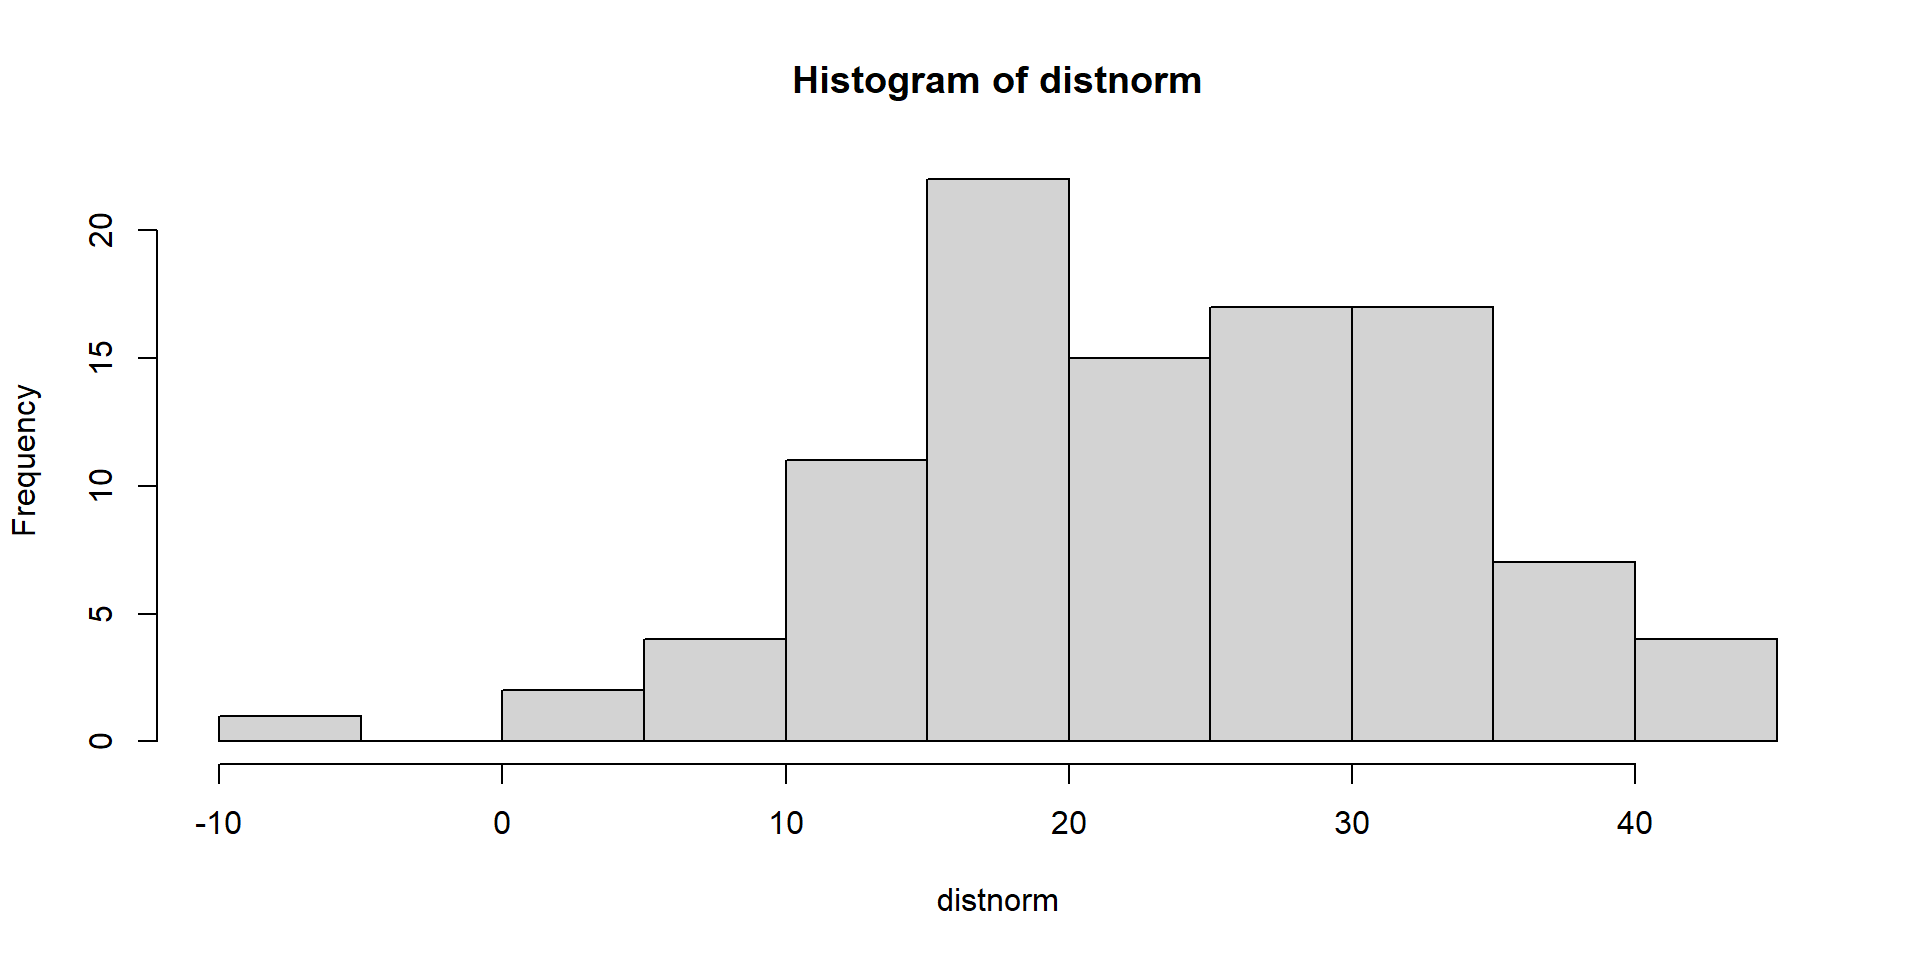
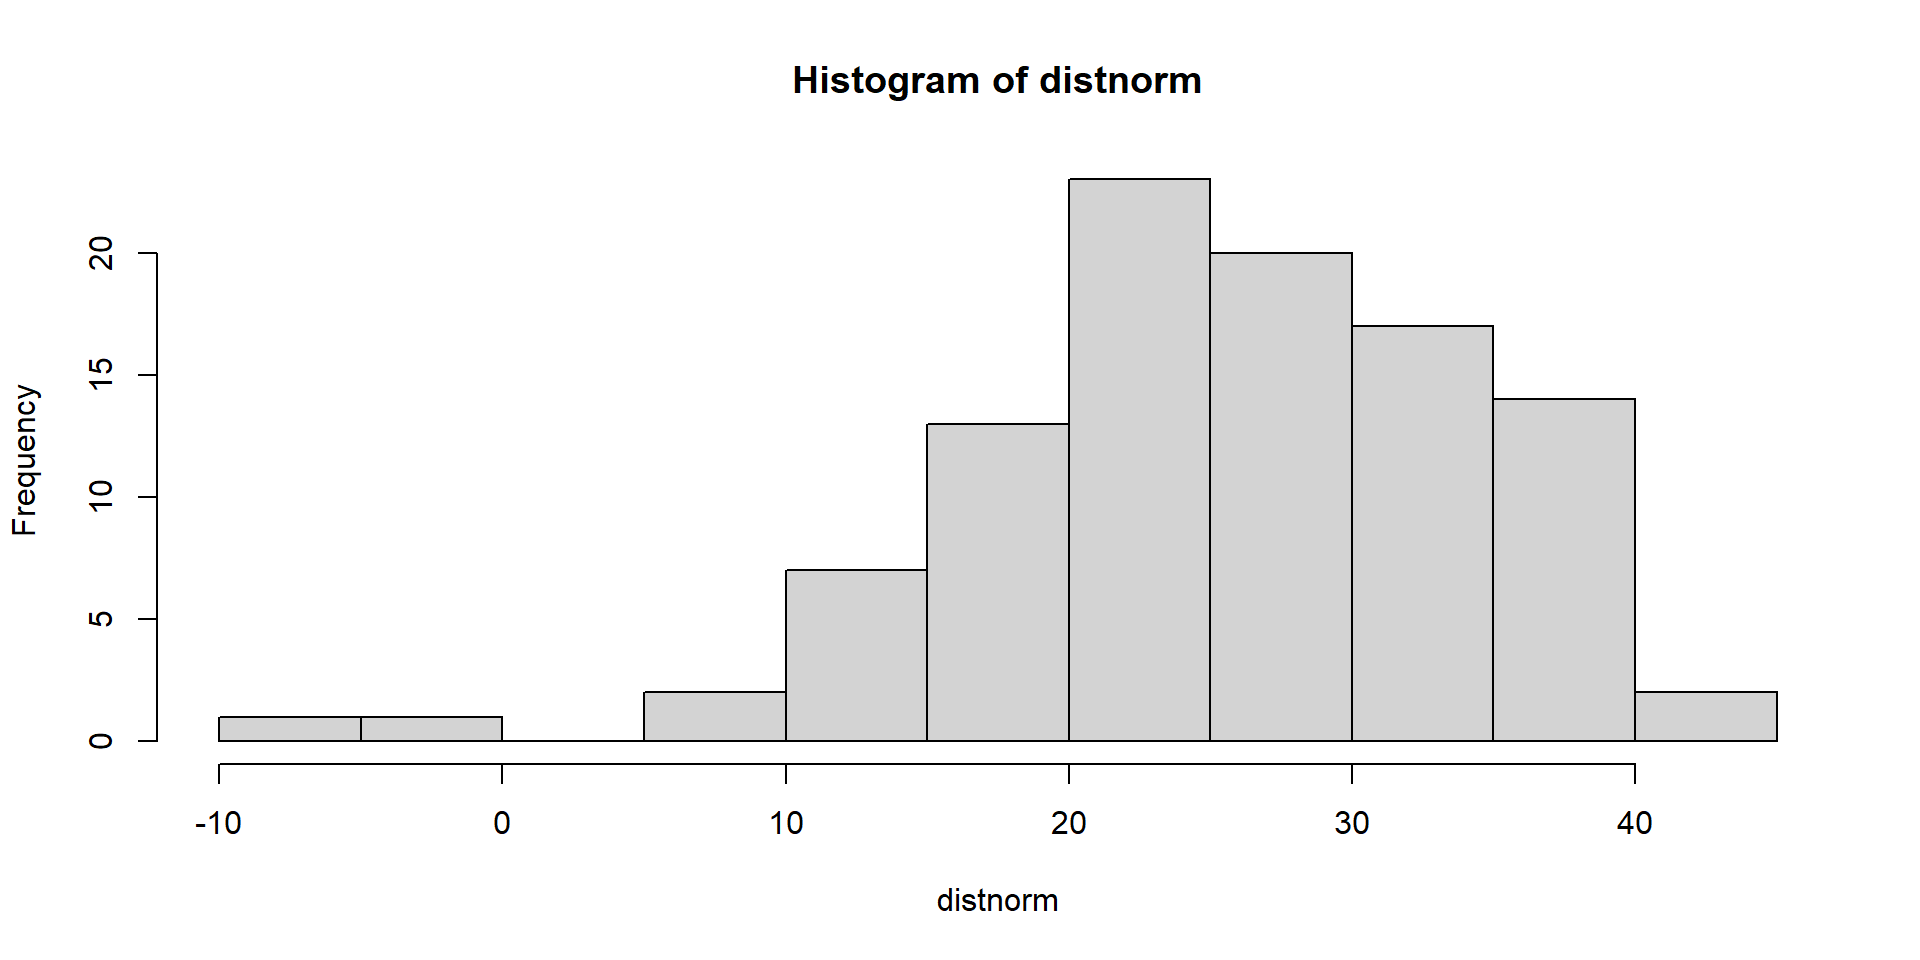
atualizaçao aula 4

diff --git a/docs/aulas/slides/aula-R-4-vetores.html b/docs/aulas/slides/aula-R-4-vetores.html
@@ -1102,6 +1102,7 @@ Utilizando “[ ]” podemos designar a posição dos elementos</p>
 </section>
 <section id="sequencias-distribuições-e-amostragens" class="slide level2">
 <h2>Sequencias, distribuições e amostragens</h2>
+<div class="texto-menor">
 <ul>
 <li>“:” - nos ja vimos este</li>
 <li>“seq()”
@@ -1117,6 +1118,7 @@ Utilizando “[ ]” podemos designar a posição dos elementos</p>
 <li>gera números aleatórios de uma distribuição uniforme <code>&gt; runif(n, min, max)</code></li>
 </ul></li>
 </ul>
+</div>
 <div class="cell">
 <div class="code-copy-outer-scaffold"><div class="sourceCode cell-code" id="cb99"><pre class="sourceCode numberSource r number-lines code-with-copy"><code class="sourceCode r"><span id="cb99-1"><a></a><span class="fu">seq</span>(<span class="dv">1</span>, <span class="dv">10</span>)</span>
 <span id="cb99-2"><a></a><span class="fu">seq</span>(<span class="dv">1</span>, <span class="dv">10</span>, <span class="dv">2</span>)</span>
@@ -1131,8 +1133,9 @@ Utilizando “[ ]” podemos designar a posição dos elementos</p>
 <span id="cb99-11"><a></a><span class="fu">runif</span>(<span class="dv">100</span>, <span class="dv">1</span>, <span class="dv">25</span>)</span></code></pre></div><button title="Copy to Clipboard" class="code-copy-button"><i class="bi"></i></button></div>
 </div>
 </section>
-<section id="sequencias-distribuições-e-amostragenws" class="slide level2">
-<h2>Sequencias, distribuições e amostragenws</h2>
+<section id="sequencias-distribuições-e-amostragens-1" class="slide level2">
+<h2>Sequencias, distribuições e amostragens</h2>
+<div class="texto-menor">
 <ul>
 <li>Podemos criar sequencias com distribuição normal, com média e desvio conhecidos</li>
 <li>rnorm()
@@ -1141,27 +1144,28 @@ Utilizando “[ ]” podemos designar a posição dos elementos</p>
 </ul></li>
 <li>O R possui funções que podem criar diversos tipos de distribuição diferentes</li>
 </ul>
+</div>
 <div class="columns">
 <div class="column" style="width:50%;">
 <div class="cell">
 <div class="code-copy-outer-scaffold"><div class="sourceCode cell-code" id="cb100"><pre class="sourceCode numberSource r number-lines code-with-copy"><code class="sourceCode r"><span id="cb100-1"><a></a>distnorm <span class="ot">&lt;-</span> <span class="fu">rnorm</span>(<span class="dv">100</span>, <span class="at">mean =</span> <span class="dv">25</span>, <span class="at">sd =</span> <span class="dv">10</span>)</span>
 <span id="cb100-2"><a></a>distnorm</span></code></pre></div><button title="Copy to Clipboard" class="code-copy-button"><i class="bi"></i></button></div>
 <div class="cell-output cell-output-stdout">
-<pre><code>  [1] 17.081032 19.561967 34.590324 10.147682 19.505648  4.427268 21.826768
-  [8] 13.671276 13.714717 31.565568 23.100996 37.909101 17.968977 26.844779
- [15] 32.853713 26.924654 17.360859 29.322131 19.172713 10.519161 12.676954
- [22] 17.429305 17.467810 28.537136 26.487296 27.796937 31.203960 -5.302708
- [29]  6.459013 30.655248 30.719183 16.333287  7.078035 28.311178 11.383085
- [36] 25.724208 33.634892 15.456030 22.333032 19.124565 30.909668 10.349636
- [43] 10.771628 32.918673 27.684269 35.126828 17.186877 17.448886 35.205138
- [50] 15.591731 34.036756 21.642353 30.768283  1.932533 41.586288 20.837487
- [57] 25.460439 32.809960 34.603107 29.593031 28.500482 21.808293 44.610827
- [64] 40.348077 17.029492 39.973316 38.534627 15.241712 16.898282 29.330654
- [71] 23.282803 12.337178 34.997324 22.190928 20.142415 25.780330 22.468911
- [78] 19.147722 25.484646 32.290065 22.858369 12.825680  5.934951  8.928289
- [85] 19.731782 22.232419 43.371431 35.858168 17.168965 27.049490 17.243942
- [92] 32.282293 23.422289 38.959030 23.645289 30.002003 18.843657 24.518771
- [99] 10.611175 29.143185</code></pre>
+<pre><code>  [1] 32.314839 29.120740 32.718892 30.478932  5.853063 26.374348 32.862763
+  [8] 33.849564 29.957731 -0.308164 29.744132 44.609945 35.087440 21.320851
+ [15] 10.426451 25.420793 24.679257 37.988781 17.618819 29.372169 20.061494
+ [22] 35.178903 13.037884 25.468221 17.829899 32.419414 19.335578 21.568087
+ [29] 24.953170 23.864436 23.594536 35.667856 25.330198 -5.082451 31.991956
+ [36] 32.259717 26.500406 31.960167 39.395287 19.166321 34.719188 17.616632
+ [43] 25.647413 25.988869 19.614360 18.845260 28.398411 30.661901 40.690496
+ [50] 26.947452 14.010700 35.495315 22.458766 28.972791 25.189489 11.122240
+ [57] 24.850208 15.163376 22.722113 22.868882 24.025667 37.997647 33.076005
+ [64] 25.105825 33.815118 32.139143 28.192552 14.121906  7.387452 21.420390
+ [71] 23.821194 37.294122 17.206513 21.692271 30.907792 35.394748 22.812408
+ [78] 26.687105 33.208474 38.166930 18.941387 20.836430 13.047730 22.980702
+ [85] 24.440766 18.478172 31.376778 24.345050 23.770037 28.153158 16.882095
+ [92] 14.557003 19.138206 39.622738 26.324574 39.531639 38.514357 20.849084
+ [99] 35.093614 23.558882</code></pre>
 </div>
 </div>
 </div><div class="column" style="width:50%;">
@@ -1177,8 +1181,8 @@ Utilizando “[ ]” podemos designar a posição dos elementos</p>
 </div>
 </div></div>
 </section>
-<section id="sequencias-distribuições-e-amostragenws-1" class="slide level2">
-<h2>Sequencias, distribuições e amostragenws</h2>
+<section id="sequencias-distribuições-e-amostragens-2" class="slide level2">
+<h2>Sequencias, distribuições e amostragens</h2>
 <ul>
 <li>Podemos sortear valores dentro de um vetor
 <ul>
@@ -1189,7 +1193,7 @@ Utilizando “[ ]” podemos designar a posição dos elementos</p>
 <div class="code-copy-outer-scaffold"><div class="sourceCode cell-code" id="cb102"><pre class="sourceCode numberSource r number-lines code-with-copy"><code class="sourceCode r"><span id="cb102-1"><a></a>d6 <span class="ot">&lt;-</span> <span class="fu">c</span>(<span class="dv">1</span><span class="sc">:</span><span class="dv">6</span>)</span>
 <span id="cb102-2"><a></a><span class="fu">sample</span>(d6, <span class="dv">3</span>)</span></code></pre></div><button title="Copy to Clipboard" class="code-copy-button"><i class="bi"></i></button></div>
 <div class="cell-output cell-output-stdout">
-<pre><code>[1] 2 1 5</code></pre>
+<pre><code>[1] 1 5 6</code></pre>
 </div>
 <div class="code-copy-outer-scaffold"><div class="sourceCode cell-code" id="cb104"><pre class="sourceCode numberSource r number-lines code-with-copy"><code class="sourceCode r"><span id="cb104-1"><a></a>moeda <span class="ot">&lt;-</span> <span class="fu">c</span>(<span class="st">"cara"</span>, <span class="st">"coroa"</span>)</span>
 <span id="cb104-2"><a></a>jogo <span class="ot">&lt;-</span> <span class="fu">sample</span>(moeda, <span class="dv">100</span>, <span class="at">replace =</span> <span class="cn">TRUE</span>)</span>
@@ -1199,7 +1203,7 @@ Utilizando “[ ]” podemos designar a posição dos elementos</p>
 <span id="cb104-6"><a></a></span>
 <span id="cb104-7"><a></a><span class="fu">sample</span>(sena, <span class="dv">6</span>, <span class="at">replace =</span> <span class="cn">FALSE</span>)</span></code></pre></div><button title="Copy to Clipboard" class="code-copy-button"><i class="bi"></i></button></div>
 <div class="cell-output cell-output-stdout">
-<pre><code>[1] 56 13 23 36 47 22</code></pre>
+<pre><code>[1]  5 57 56 30 13 46</code></pre>
 </div>
 </div>
 </section>
@@ -1209,17 +1213,17 @@ Utilizando “[ ]” podemos designar a posição dos elementos</p>
 <div class="code-copy-outer-scaffold"><div class="sourceCode cell-code" id="cb106"><pre class="sourceCode numberSource r number-lines code-with-copy"><code class="sourceCode r"><span id="cb106-1"><a></a>x <span class="ot">&lt;-</span> <span class="fu">rnorm</span>(<span class="dv">10</span>)</span>
 <span id="cb106-2"><a></a><span class="fu">sort</span>(x) <span class="co">#ordena os valores de x.</span></span></code></pre></div><button title="Copy to Clipboard" class="code-copy-button"><i class="bi"></i></button></div>
 <div class="cell-output cell-output-stdout">
-<pre><code> [1] -1.35676581 -0.69980737 -0.63489576 -0.08721925 -0.02829917  0.34576236
- [7]  0.79155641  0.86155256  0.91066746  1.65344863</code></pre>
+<pre><code> [1] -1.49707194 -0.43454769 -0.22871574 -0.02470874  0.12016771  0.50014746
+ [7]  0.68407399  0.79974804  0.89250057  0.94839150</code></pre>
 </div>
 <div class="code-copy-outer-scaffold"><div class="sourceCode cell-code" id="cb108"><pre class="sourceCode numberSource r number-lines code-with-copy"><code class="sourceCode r"><span id="cb108-1"><a></a><span class="fu">sort</span>(x, <span class="at">decreasing =</span> T) <span class="co">#organiza em ordem decrescente</span></span></code></pre></div><button title="Copy to Clipboard" class="code-copy-button"><i class="bi"></i></button></div>
 <div class="cell-output cell-output-stdout">
-<pre><code> [1]  1.65344863  0.91066746  0.86155256  0.79155641  0.34576236 -0.02829917
- [7] -0.08721925 -0.63489576 -0.69980737 -1.35676581</code></pre>
+<pre><code> [1]  0.94839150  0.89250057  0.79974804  0.68407399  0.50014746  0.12016771
+ [7] -0.02470874 -0.22871574 -0.43454769 -1.49707194</code></pre>
 </div>
 <div class="code-copy-outer-scaffold"><div class="sourceCode cell-code" id="cb110"><pre class="sourceCode numberSource r number-lines code-with-copy"><code class="sourceCode r"><span id="cb110-1"><a></a><span class="fu">order</span>(x) <span class="co">#retorna os postos de x</span></span></code></pre></div><button title="Copy to Clipboard" class="code-copy-button"><i class="bi"></i></button></div>
 <div class="cell-output cell-output-stdout">
-<pre><code> [1]  8  2  4 10  7  9  6  5  1  3</code></pre>
+<pre><code> [1]  1  8  9  6  2  3  5 10  7  4</code></pre>
 </div>
 </div>
 <p>Crie o objeto y com os valores de x ordenados e veja os postos</p>
